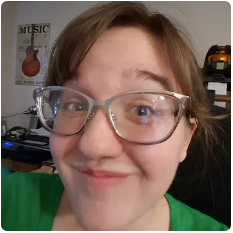
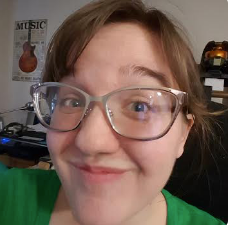
Added more contact buttons and styling.

diff --git a/index.html b/index.html
@@ -16,9 +16,11 @@
 
     <!-- Bootstrap Core CSS -->
     <link href="vendor/bootstrap/css/bootstrap.min.css" rel="stylesheet">
+    <link href="vendor/bootstrap/css/bootstrap.css" rel="stylesheet">
 
     <!-- Theme CSS -->
     <link href="css/freelancer.min.css" rel="stylesheet">
+    <link href="css/freelancer.css" rel="stylesheet">
 
     <!-- Custom Fonts -->
     <link href="vendor/font-awesome/css/font-awesome.min.css" rel="stylesheet" type="text/css">
@@ -68,6 +70,12 @@
                     <li class="page-scroll">
                         <a href="#contact">Contact</a>
                     </li>
+                    <li>
+                        <a href="https://twitter.com/kteich87?lang=en" class="btn-social btn-outline"><i class="fa fa-fw fa-twitter"></i></a>
+                    </li>
+                    <li>
+                        <a href="" class="btn-social btn-outline"><i class="fa fa-fw fa-linkedin"></i></a>
+                    </li>
                 </ul>
             </div>
             <!-- /.navbar-collapse -->
@@ -80,14 +88,16 @@
         <div class="container">
             <div class="row">
                 <div class="col-lg-12">
-                    <img class="img-responsive" src="img/profile.png" alt="">
+                    <img id="selfie" class="img-responsive" src="img/profile.png" alt="">
                     <div class="intro-text">
                         <span class="name">Kristine Teichmann</span>
                         <hr class="star-light">
-                        <span class="skills">Teacher ~ Scientist ~ Rubyist ~ Programmer</span>
                         <ul class="list-inline">
                             <li>
                                 <a href="https://twitter.com/kteich87?lang=en" class="btn-social btn-outline"><i class="fa fa-fw fa-twitter"></i></a>
+                            </li>
+                            <li>
+                              <span class="skills">Teacher ~ Scientist ~ Rubyist ~ Programmer</span>
                             </li>
                             <li>
                                 <a href="" class="btn-social btn-outline"><i class="fa fa-fw fa-linkedin"></i></a>

diff --git a/css/freelancer.css b/css/freelancer.css
@@ -507,3 +507,7 @@ fieldset[disabled] .btn-success.active {
 .img-responsive {
 
 }
+
+#selfie {
+  border-radius: 100%;
+}
